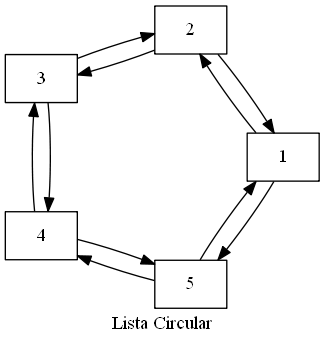
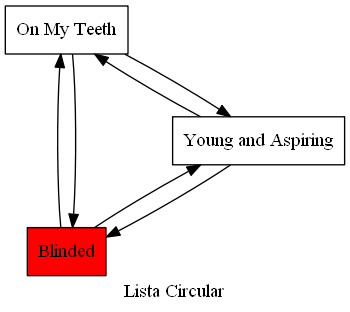
Casi terminado

diff --git a/Music++/Music++/ListaCanciones.h b/Music++/Music++/ListaCanciones.h
@@ -1,0 +1,172 @@
+#pragma once
+#pragma once
+#pragma once
+#include <fstream> 
+#include <string> 
+#include "canciones.h"
+using namespace std;
+class ListaCanciones
+{
+	class Nodo {
+	public:
+		Nodo(canciones *x)
+		{
+			next = 0;
+			before = 0;
+			dato = x;
+		}
+
+		Nodo *getNext() { return next; }
+		Nodo *getBefore() { return before; }
+		void setNext(Nodo *n) { next = n; }
+		void setBefore(Nodo *n) { before = n; }
+		canciones *getDato() { return dato; }
+		void setDato(canciones *a) { this->dato = a; }
+	private:
+		Nodo *next;
+		Nodo *before;
+		canciones *dato;
+	};
+public:
+	ListaCanciones()
+	{
+		first = 0;
+		last = 0;
+		size = 0;
+	}
+	int getSize_LD() { return size; }
+	void add_first_LD(canciones *dato)
+	{
+		Nodo *n = new Nodo(dato);
+		if (this->isEmpty())
+		{
+			this->first = n;
+			this->last = n;
+			this->size++;
+		}
+		else
+		{
+			n->setNext(this->first);
+			this->first->setBefore(n);
+			this->first = n;
+			this->size++;
+		}
+	}
+	void add_at(canciones *dato, int index)
+	{
+		if (index >= 0 && index <= this->size)
+		{
+			if (index == 0) { this->add_first_LD(dato); return; }
+			Nodo *aux = this->first;
+			int x = 0;
+			while (aux != 0)
+			{
+				if (x == index) { break; }
+				aux = aux->getNext();
+				x++;
+			}
+			Nodo *n = new Nodo(dato);
+			aux->getBefore()->setNext(n);
+			n->setBefore(aux->getBefore());
+			n->setNext(aux);
+			aux->setBefore(n);
+			this->size++;
+		}
+	}
+
+
+	canciones* get_element_at_LD(int index)
+	{
+		if (index >= 0 && index < size)
+		{
+			Nodo *iterador = this->first;
+			int x = 0;
+			while (iterador != 0)
+			{
+				if (index == x) { return iterador->getDato(); }
+				iterador = iterador->getNext();
+				x++;
+			}
+		}
+		return 0;
+	}
+	canciones* get_element(string index)
+	{
+		Nodo *iterador = this->first;
+		while (iterador != 0)
+		{
+			if (index.compare(iterador->getDato()->getName()) == 0) { return iterador->getDato(); }
+			iterador = iterador->getNext();
+		}
+		return 0;
+	}
+
+	void ordenarLista()
+	{
+		Nodo *actual, *siguiente;
+		canciones* t;
+
+		actual = this->first;
+		if (actual != 0) {
+			while (actual->getNext() != 0)
+			{
+				siguiente = actual->getNext();
+
+				while (siguiente != 0)
+				{
+					if ((actual->getDato()->getName().compare(siguiente->getDato()->getName())) > 0)
+					{
+						t = siguiente->getDato();
+						siguiente->setDato(actual->getDato());
+						actual->setDato(t);
+					}
+					siguiente = siguiente->getNext();
+				}
+				actual = actual->getNext();
+				siguiente = actual->getNext();
+
+			}
+
+		}
+	}
+
+
+	void graficar_LD(int pintar) {
+		std::ofstream dot(".\\grafico\\codigo\\LD.txt", std::ofstream::out);
+		dot << "digraph columnas{" << endl;
+		dot << "    rankdir=TB;" << endl;
+		dot << "    node [shape = box];" << endl;
+		dot << "    graph [ranksep=\"1\"];" << endl << endl;
+		dot << "    label=\"Lista Doble de Artistas\";" << endl;
+
+		for (int i = 1;i <= this->getSize_LD();i++) {
+			if (pintar == i) {
+				dot << "    nodo" << i << "[label=\"" << this->get_element_at_LD(i - 1)->getName() << "\",style=filled,fillcolor=red];" << endl;
+			}
+			else
+			{
+				dot << "    nodo" << i << "[label=\"" << this->get_element_at_LD(i - 1)->getName() << "\"];" << endl;
+			}
+
+		}
+
+		dot << endl << endl;
+		for (int i = 1;i < this->getSize_LD();i++) {
+
+			dot << "    nodo" << i << "->nodo" << (i + 1) << endl;
+			dot << "    nodo" << (i + 1) << "->nodo" << i << endl;
+
+		}
+		if (this->getSize_LD() == 0) { dot << "    nodo" << 0 << "[label=\"" << "Lista Vacia" << "\"];" << endl; }
+		dot << "}" << endl;
+		dot.close();
+		system("dot -Tpng .\\grafico\\codigo\\LD.txt -o .\\grafico\\LD.png");
+		system(".\\grafico\\LD.png");
+	}
+
+private:
+	bool isEmpty() { return size == 0; }
+	int size;
+	Nodo *first;
+	Nodo *last;
+};

diff --git a/Music++/Music++/EDD/ListaCircularDoble.h b/Music++/Music++/EDD/ListaCircularDoble.h
@@ -1,13 +1,13 @@
 #pragma once
 #include <fstream> 
 #include <string>
+#include "canciones.h"
 using namespace std;
-template <class T>
 class ListaCircularDoble
 {
 	class Nodo {
 	public:
-		Nodo(T x) {
+		Nodo(canciones *x) {
 			siguiente = 0;
 			anterior = 0;
 			dato = x;
@@ -16,11 +16,11 @@ class ListaCircularDoble
 		Nodo *getBefore() { return anterior; }
 		void setNext(Nodo *n) { siguiente = n; }
 		void setBefore(Nodo *n) { anterior = n; }
-		T getDato() { return dato; }
+		canciones* getDato() { return dato; }
 	private:
 		Nodo *siguiente;
 		Nodo *anterior;
-		T dato;
+		canciones *dato;
 	};
 public:
 	ListaCircularDoble() {
@@ -29,10 +29,10 @@ public:
 		size = 0;
 	}
 	int getSize() { return size; }
-	void add_first(T dato);
-	void add_at(T dato, int index);
-	void graficar();
-	T get_element_at(int index);
+	void add_first(canciones *dato);
+	void add_at(canciones *dato, int index);
+	void graficar(int pintar);
+	canciones* get_element_at(int index);
 
 private:
 	bool isEmpty() { return size == 0; }
@@ -41,8 +41,7 @@ private:
 	Nodo *last;
 	~ListaCircularDoble();
 };
-template <class T>
-void ListaCircularDoble<T>::add_first(T dato) {
+void ListaCircularDoble::add_first(canciones* dato) {
 	Nodo *n = new Nodo(dato);
 	if (this->isEmpty())
 	{
@@ -67,8 +66,7 @@ void ListaCircularDoble<T>::add_first(T dato) {
 		this->size++;
 	}
 }
-template<class T>
-T ListaCircularDoble<T>::get_element_at(int index)
+canciones* ListaCircularDoble::get_element_at(int index)
 {
 	if (index >= 0 && index < size)
 	{
@@ -83,13 +81,12 @@ T ListaCircularDoble<T>::get_element_at(int index)
 	}
 	return 0;
 }
-template<class T>
-void ListaCircularDoble<T>::add_at(T dato, int index)
+void ListaCircularDoble::add_at(canciones* dato, int index)
 {
 	if (index >= 0 && index <= this->size)
 	{
 		if (index == 0) { this->add_first(dato); return; }
-		if (index == this->size) { this->add_last(dato); return; }
+		
 		Nodo *aux = this->first;
 		int x = 0;
 		while (aux != 0)
@@ -106,8 +103,7 @@ void ListaCircularDoble<T>::add_at(T dato, int index)
 		this->size++;
 	}
 }
-template <class T>
-void  ListaCircularDoble<T>::graficar() {
+void  ListaCircularDoble::graficar(int pintar) {
 
 	string Ruta = ".\\Grafico\\Codigo\\LCD.txt";
 	std::ofstream dot(Ruta, std::ofstream::out);
@@ -119,7 +115,14 @@ void  ListaCircularDoble<T>::graficar() {
 	dot << "    label=\"Lista Circular\";" << endl;
 
 	for (int i = 1;i <= this->getSize();i++) {
-		dot << "    nodo" << i << "[label=\"" << this->get_element_at(i - 1) << "\"];" << endl;
+		if (pintar == i) {
+			dot << "    nodo" << i << "[label=\"" << this->get_element_at(i - 1)->getName() << "\",style=filled,fillcolor=red];" << endl;
+		}
+		else
+		{
+			dot << "    nodo" << i << "[label=\"" << this->get_element_at(i - 1)->getName() << "\"];" << endl;
+		}
+
 	}
 	dot << endl << endl;
 	for (int i = 1;i <= this->getSize();i++) {

diff --git a/Music++/Music++/Music++.cpp b/Music++/Music++/Music++.cpp
@@ -19,23 +19,25 @@
 #include "canciones.h"
 #include "EDD/LDAlbum.h"
 #include "PlayListPl.h"
+#include "ListaCanciones.h"
 
 
 // por conveniencia 
 using namespace std;
  
 //EDD
+ListaCanciones *LC = new ListaCanciones();
 Pila<int> *P = new Pila<int>();
 ListaSimple *LS = new ListaSimple();
 ListaDoble *LD = new ListaDoble();
-ListaCircularDoble<int> *LCD = new ListaCircularDoble<int>();
+ListaCircularDoble *LCD ;
 cola<int> *c = new cola<int>();
 album *album0;
 album *album1;
 canciones *ca;
 LDAlbum *TopAlbu = new LDAlbum(); 
 ListaDoblePl *Play;
-string Shuffle = "Shuffle";
+string Shuffle = "Shuffle", Circular="Circular";
 
 
 //----------------------------Declaracion de funciones-----------------------
@@ -203,6 +205,7 @@ void Abrir(string ruta)
 				string rating = cancionesI["Rating"];
 				int ra = stoi(rating);
 				ca = new canciones(cancionesI["Name"], cancionesI["File"], ra);
+				LC->add_first_LD(ca);
 				album0->canciones->add_first_LS(ca);
 				ratingAlbum = ratingAlbum + ra;
 				iteracionA++;
@@ -274,10 +277,13 @@ bool verificar(string artista, string album, string song) {
 void importarPlayList(string ruta){
 	std::ifstream ifs(ruta);
 	nlohmann::json plyLst = nlohmann::json::parse(ifs);
-	cout<<"\t\t"<<plyLst["Type"]<<endl;
+	std::cout<<"\t\t"<<plyLst["Type"]<<endl;
 	string plyName = plyLst["Type"];
 	if((Shuffle.compare(plyName))==0){
 		Play = new ListaDoblePl();
+	}
+	else if ((Circular.compare(plyName)) == 0) {
+		LCD = new ListaCircularDoble();
 	}
 	
 	for (const auto& song : plyLst["Songs"])
@@ -289,6 +295,10 @@ void importarPlayList(string ruta){
 			int ra = stoi(r);
 			if ((Shuffle.compare(plyName)) == 0) {
 				Play->add_first_LD(new canciones(song["Song"], song["Artist"], ra));
+			}
+			else if ((Circular.compare(plyName)) == 0) {
+				
+				LCD->add_first(new canciones(song["Song"], song["Artist"], ra));
 			}
 			else
 			{
@@ -308,6 +318,20 @@ void importarPlayList(string ruta){
 	if ((Shuffle.compare(plyName)) == 0) {
 		for (int x = 1; x <= Play->getSize_LD();x++) {
 			Play->graficar_LD(1 + (rand() % Play->getSize_LD()));
+			Sleep(3000);
+		}
+	}
+	else if ((Circular.compare(plyName)) == 0) {
+
+		for (int x = 1; x <= LCD->getSize();x++) {
+			LCD->graficar(x);
+			if (x == LCD->getSize()) {
+				for (int w = LCD->getSize(); w >= 1;w--) {
+					LCD->graficar(w);
+					Sleep(3000);
+				}
+				x++;
+			}
 			Sleep(3000);
 		}
 	}
@@ -340,6 +364,16 @@ int main()
 			cin >> file;
 			importarPlayList("Importaciones/" + file);
 			system("pause");
+			break;
+		case 3:
+			if (LC->getSize_LD()!=0) {
+				for (int i = 0; i < LC->getSize_LD(); i++)
+				{
+					cout <<"-> "<< LC->get_element_at_LD(i)->getName() << endl;
+				}
+				system("pause");
+
+			}
 			break;
 		case 5:
 			LD->ordenarLista();

diff --git a/Music++/Music++/ListaCanciones.cpp b/Music++/Music++/ListaCanciones.cpp
@@ -1,0 +1,2 @@
+#include "pch.h"
+#include "ListaCanciones.h"
